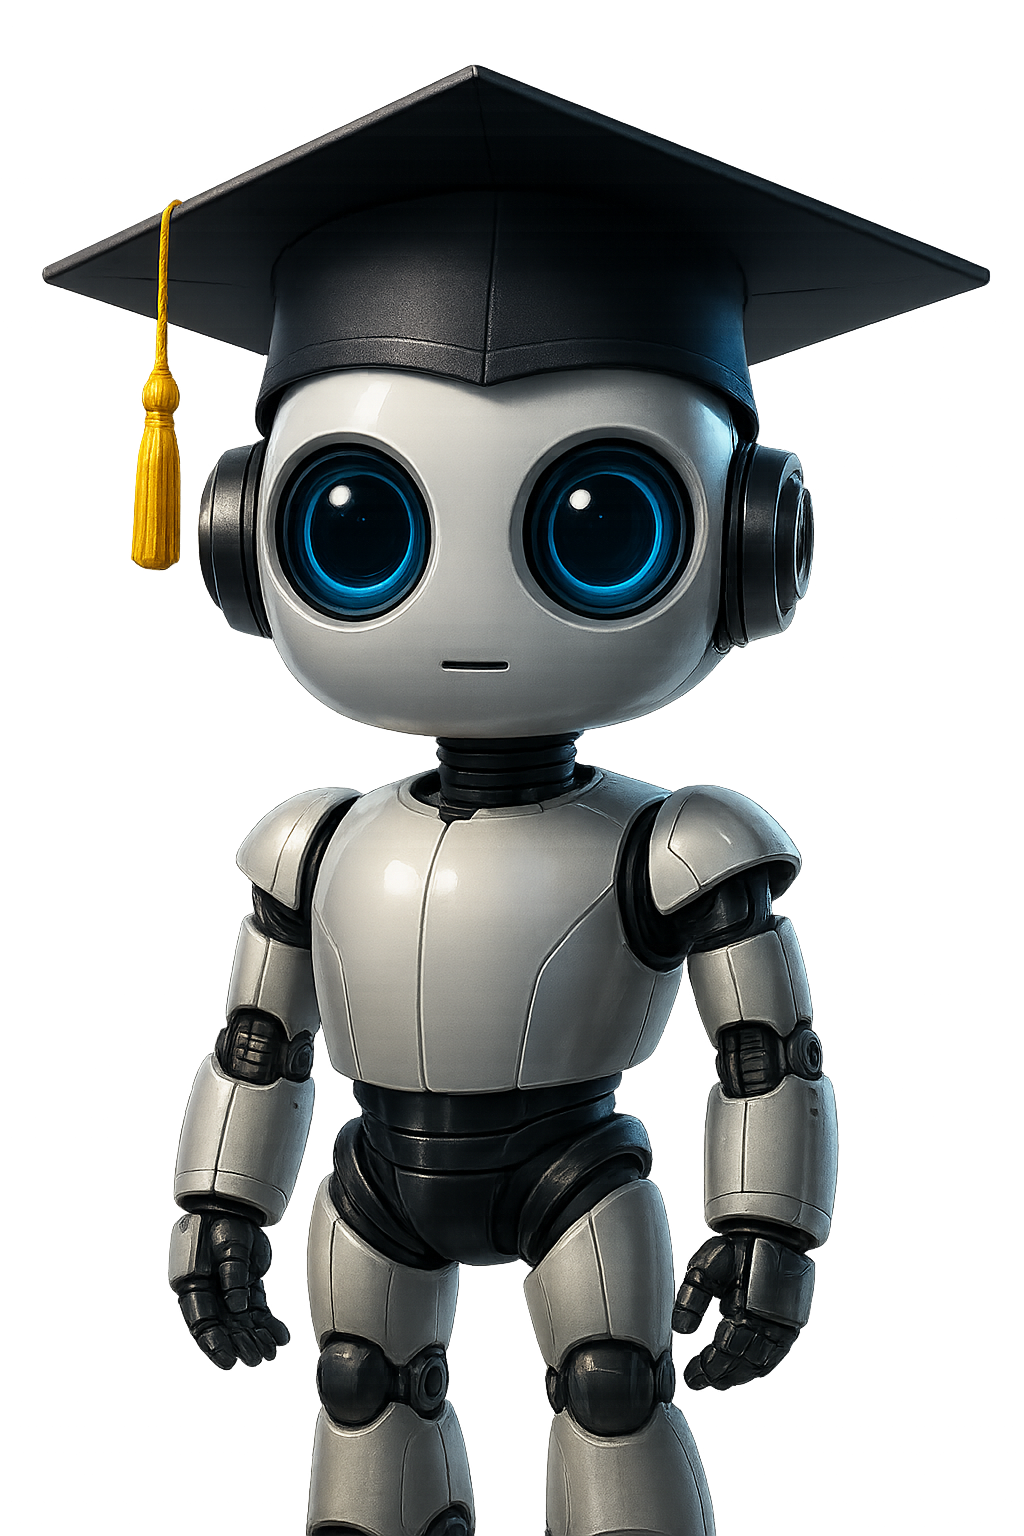
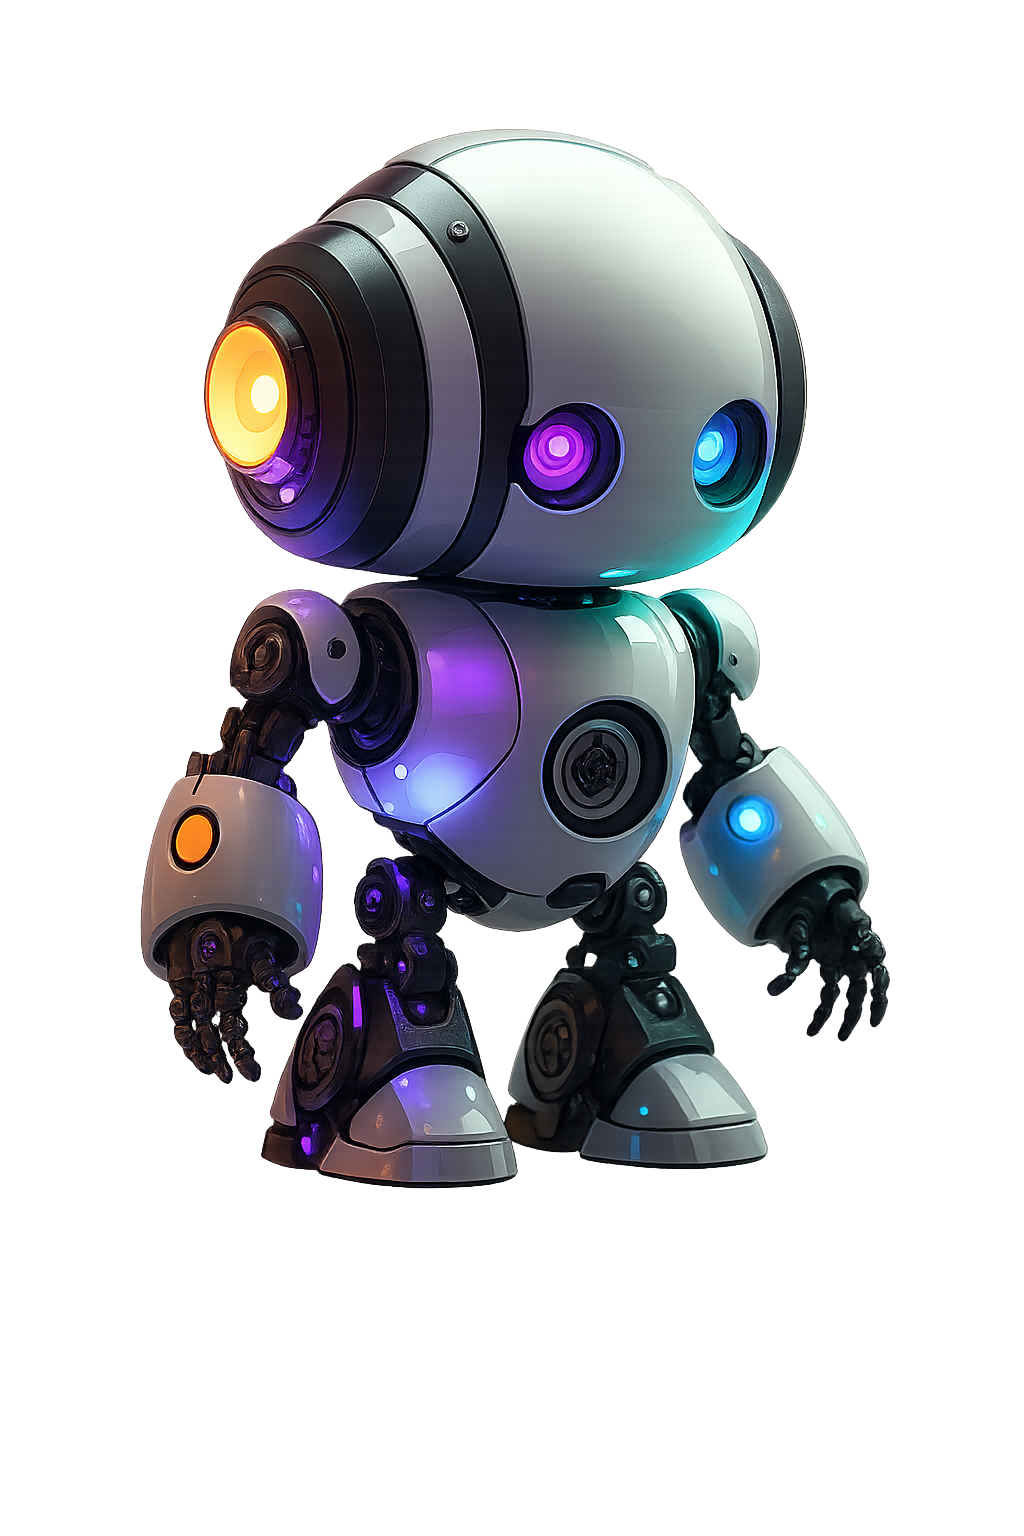
Updated Vite app with new changes

diff --git a/src/components/Home.jsx b/src/components/Home.jsx
@@ -1,7 +1,7 @@
 import React from "react";
 import bg from "./../assets/Home Section/bg3.jpg";
 import my from "./../assets/Home Section/my2.png";
-import robot from "./../assets/Home Section/robot.png";
+import robot from "./../assets/Home Section/robot3.png";
 import slt from "./../assets/Home Section/slt.png";
 import aw from "./../assets/Home Section/aw.png";
 import txmeter from "./../assets/Home Section/txmeter.png";
@@ -201,9 +201,13 @@ const Home = () => {
 
                         <div className="flex flex-col flex-1">
                           <div className="flex items-center justify-between mb-2"></div>
+                          <h3 className="font-italiana text-white text-xs font-light tracking-wide bg-gradient-to-r from-white to-purple-200 bg-clip-text text-transparent">
+                            MOBITEL Market Edge Sales Management System
+                          </h3>
                           <ArrowRight className="w-5 h-5 text-white/60 transition-all duration-500 group-hover/card:text-cyan-400 group-hover/card:translate-x-2 group-hover/card:scale-110 drop-shadow-lg" />
-                          <p className="text-gray-300 text-base font-medium bg-gradient-to-r from-white via-blue-200 to-purple-200 bg-clip-text text-transparent drop-shadow-sm">
-                            Market Edge Sales Management System
+
+                          <p className="text-gray-400 text-xs leading-relaxed bg-gradient-to-r from-gray-400 to-gray-300 bg-clip-text text-transparent">
+                            AI-Powered Sales System
                           </p>
                           <div className="mt-3 flex gap-2">
                             <span className="px-3 py-1 bg-gradient-to-r from-purple-500/30 to-purple-600/20 text-purple-200 text-xs rounded-full border border-purple-400/40 shadow-lg shadow-purple-500/20 backdrop-blur-sm">
@@ -353,14 +357,14 @@ const Home = () => {
                         <div className="flex flex-col flex-1">
                           <div className="flex items-center gap-2 mb-1">
                             <h3 className="font-italiana text-white text-xs font-light tracking-wide bg-gradient-to-r from-white to-purple-200 bg-clip-text text-transparent">
-                              RECENT PROJECT
+                              MOBITEL Market Edge Sales Management System
                             </h3>
                             <div className="flex items-center group/arrow">
                               <ArrowRight className="w-3 h-3 text-white/70 transition-all duration-400 group-hover/card:text-purple-400 group-hover/card:translate-x-1 group-hover/card:scale-110" />
                             </div>
                           </div>
                           <p className="text-gray-300 text-xs bg-gradient-to-r from-white via-blue-200 to-purple-200 bg-clip-text text-transparent">
-                            Market Edge Sales Management System
+                            AI-Powered Sales Solution
                           </p>
                           <div className="mt-1.5 flex gap-1">
                             <span className="px-2 py-0.5 bg-gradient-to-r from-purple-500/25 to-purple-600/20 text-purple-200 text-xs rounded-full border border-purple-400/30 shadow-sm shadow-purple-500/20">

diff --git a/src/components/Education.jsx b/src/components/Education.jsx
@@ -2,7 +2,7 @@ import React from "react";
 import bg from "./../assets/Education/bg2.jpg";
 import my from "./../assets/Education/group1.jpg";
 import my2 from "./../assets/Education/group2.jpg";
-import robot from "./../assets/Home Section/robot3.png";
+import robot from "./../assets/Home Section/robot.png";
 import { ArrowRight, ExternalLink, GraduationCap } from "lucide-react";
 import "./button.css";
 
@@ -215,7 +215,7 @@ const Education = () => {
                   <img
                     src={robot}
                     alt="robot"
-                    className="h-[100vh] filter drop-shadow-lg"
+                    className="mt-14 h-[130vh] w-auto filter drop-shadow-lg"
                   />
                 </div>
               </div>

diff --git a/tailwind.config.js b/tailwind.config.js
@@ -8,7 +8,9 @@ export default {
     extend: {
       fontFamily: {
         'italiana': ['Italiana'],
+        'Hugiller': ['"Hugiller DEMO"', 'cursive'],
       },
+      
       keyframes: {
         move1: {
           "0%, 100%": { transform: "translate(0, 0)" },
